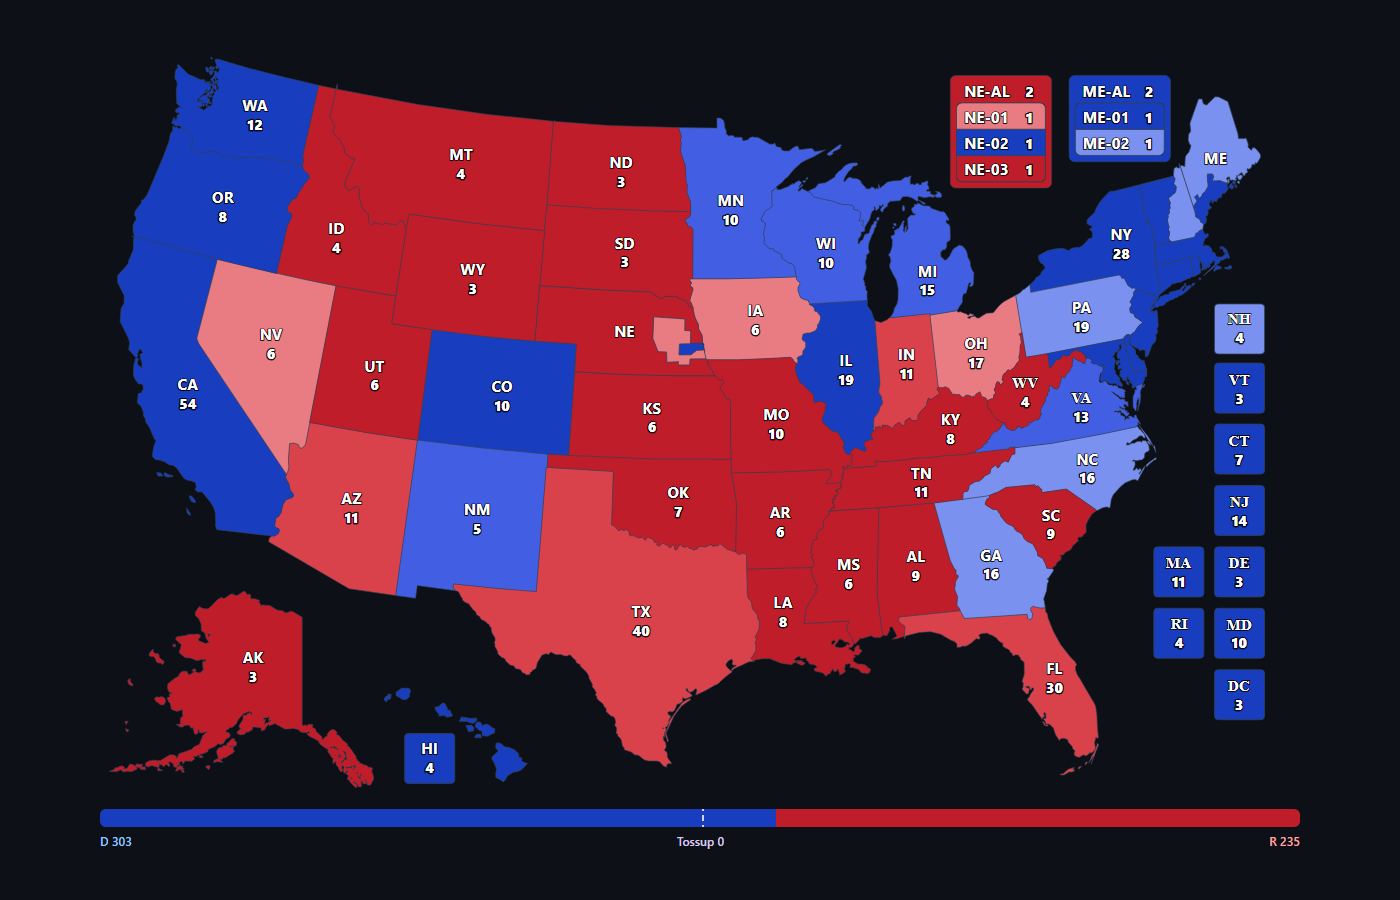
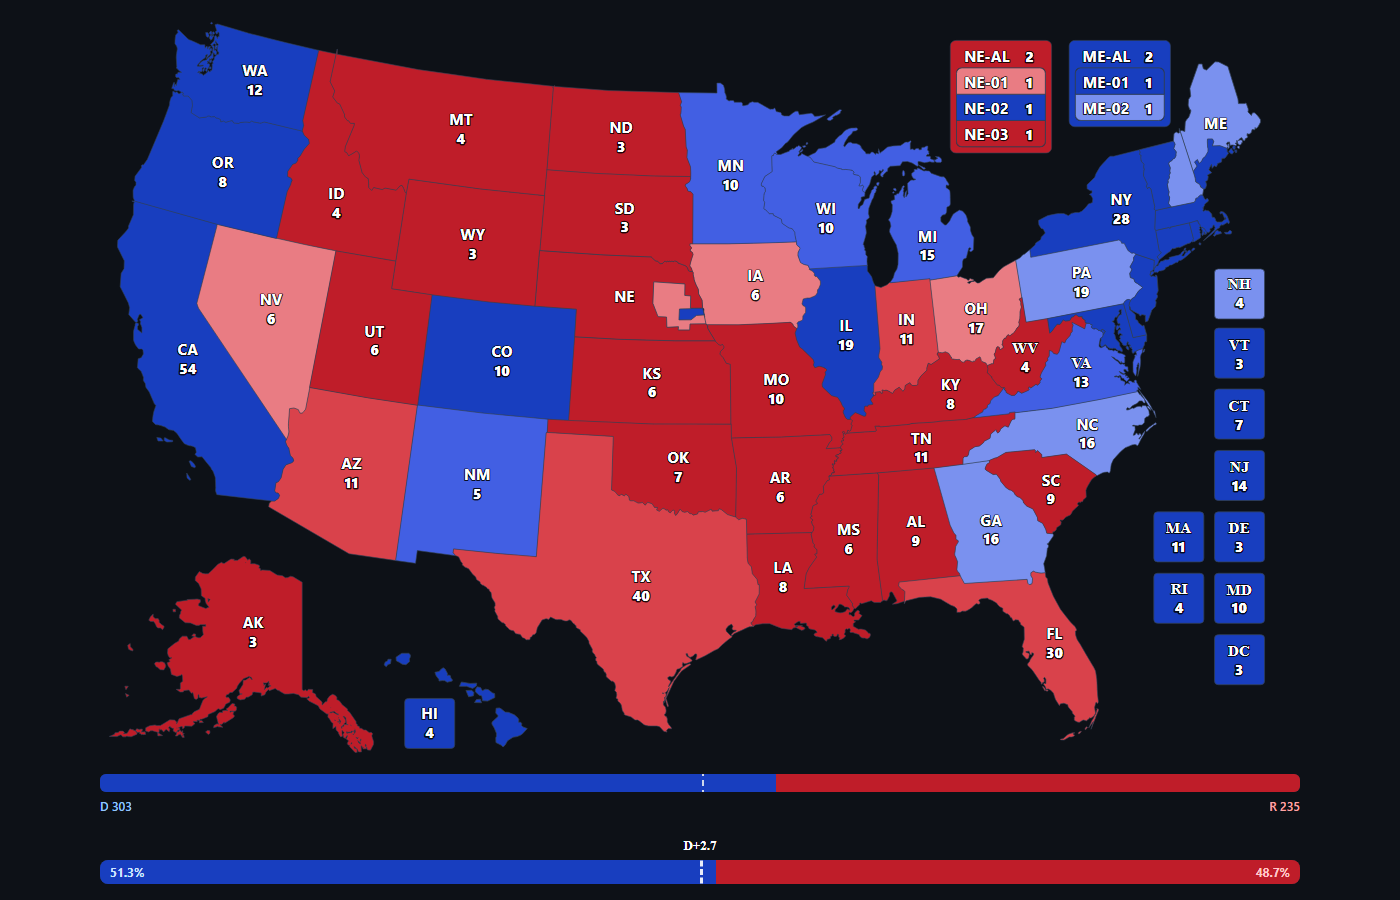
Add national popular vote bar to PNG export
Introduces a national popular vote (PV) bar to the exported PNG map, displaying Democrat and Republican percentages and lean label. The PV margin is calculated as an EV-weighted average in yapms_from_centroid_csvs.py and passed to the export logic. Tossup label is now hidden if zero.

Changed region(s): [[0.0614, 0.0311, 0.9521, 0.9956], [0.3686, 0.1867, 0.3993, 0.2178]]

diff --git a/yapms-map-export/export_yapms_png.py b/yapms-map-export/export_yapms_png.py
@@ -7,6 +7,7 @@ from urllib.parse import urlencode
 from xml.etree import ElementTree as ET
 
 from playwright.async_api import async_playwright
+import utils  # type: ignore
 
 
 def _colorize_svg(svg_text: str, saved_map: dict) -> str:
@@ -156,9 +157,49 @@ async def export_png(base64_data: str, out_path: Path, base_url: str = "inline")
                         rep_ev += ev
                     else:
                         toss_ev += ev
-            total_ev = max(1, dem_ev + rep_ev + toss_ev)
-            threshold_ev = 270
-            threshold_pct = max(0.0, min(100.0, (threshold_ev / total_ev) * 100.0))
+                total_ev = max(1, dem_ev + rep_ev + toss_ev)
+                threshold_ev = 270
+                threshold_pct = max(0.0, min(100.0, (threshold_ev / total_ev) * 100.0))
+
+                # Prepare Tossup label (hide if zero)
+                toss_label_html = f'<span class="toss">Tossup {toss_ev}</span>' if toss_ev else ''
+
+                # Popular vote (national margin) PV bar
+                try:
+                        national_margin = float(saved_json.get("national_margin", 0.0) or 0.0)
+                except Exception:
+                        national_margin = 0.0
+
+                d_pct = (1.0 + national_margin) / 2.0
+                r_pct = (1.0 - national_margin) / 2.0
+                d_pct = max(0.0, min(1.0, d_pct))
+                r_pct = max(0.0, min(1.0, r_pct))
+
+                pv_dem_percent = d_pct * 100.0
+                pv_rep_percent = r_pct * 100.0
+                pv_label = utils.lean_str(national_margin)
+
+                pv_bar_html = f"""
+<!-- Popular vote (PV) bar -->
+<div style="margin-top:8px;width:1200px;">
+    <!-- PV lean label (above the bar) -->
+    <div style="text-align:center;color:#ffffff;font-weight:800;font-size:13px;margin-bottom:6px;">{pv_label}</div>
+    <div class="battle pv" style="width:100%;">
+        <div class="bar pv-bar" style="position:relative;height:24px;background:#0b1220;border-radius:8px;overflow:hidden;">
+            <!-- Democrat portion (left) -->
+            <div style="position:absolute;left:0;top:0;bottom:0;width:{pv_dem_percent:.3f}%;background:#183ebf;"></div>
+            <!-- Republican portion (right) -->
+            <div style="position:absolute;right:0;top:0;bottom:0;width:{pv_rep_percent:.3f}%;background:#bf1d29;"></div>
+            <!-- Center dashed line at 50% -->
+            <div style="position:absolute;left:50%;top:-8px;bottom:-8px;width:0;border-left:3px dashed rgba(255,255,255,0.9);pointer-events:none;"></div>
+            <!-- Democrat percentage (left) -->
+            <div style="position:absolute;left:10px;top:50%;transform:translateY(-50%);color:#cfe6ff;font-weight:700;font-size:12px;">{pv_dem_percent:.1f}%</div>
+            <!-- Republican percentage (right) -->
+            <div style="position:absolute;right:10px;top:50%;transform:translateY(-50%);color:#ffc8c8;font-weight:700;font-size:12px;">{pv_rep_percent:.1f}%</div>
+        </div>
+    </div>
+</div>
+"""
 
             # Dark theme + fine borders for region seams
             html = f"""
@@ -254,10 +295,11 @@ async def export_png(base64_data: str, out_path: Path, base_url: str = "inline")
                                 </div>
                                 <div class=\"labels\">
                                     <span class=\"dem\">D {dem_ev}</span>
-                                    <span class=\"toss\">Tossup {toss_ev}</span>
+                                    {toss_label_html}
                                     <span class=\"rep\">R {rep_ev}</span>
                                 </div>
                             </div>
+                            {pv_bar_html}
                         </div>
             """
 

diff --git a/yapms-map-export/yapms_from_centroid_csvs.py b/yapms-map-export/yapms_from_centroid_csvs.py
@@ -73,6 +73,9 @@ def build_saved_map_from_centroid_df(df: pd.DataFrame, year_tag: str = "2024312"
         raise ValueError(f"Missing columns in centroid CSV: {missing}")
 
     regions = []
+    # For national popular vote estimate, compute EV-weighted average of final_margin
+    total_ev_for_pv = 0
+    weighted_margin_sum = 0.0
     for _, row in df.iterrows():
         abbr = str(row["abbr"]).upper()
         rid = abbr.lower()
@@ -86,6 +89,10 @@ def build_saved_map_from_centroid_df(df: pd.DataFrame, year_tag: str = "2024312"
             ev = 0
         if ev <= 0:
             continue
+
+        # accumulate for national PV
+        total_ev_for_pv += ev
+        weighted_margin_sum += fm * ev
 
         tok = token_for_margin(fm)
         if tok in TOKEN_TO_PARTY_AND_INDEX:
@@ -109,6 +116,8 @@ def build_saved_map_from_centroid_df(df: pd.DataFrame, year_tag: str = "2024312"
         "tossup": TOSSUP,
         "candidates": US_CANDIDATES,
         "regions": regions,
+    # national_margin is D-R as a float in [-1,1]
+    "national_margin": (weighted_margin_sum / total_ev_for_pv) if total_ev_for_pv > 0 else 0.0,
     }
     return saved
 
